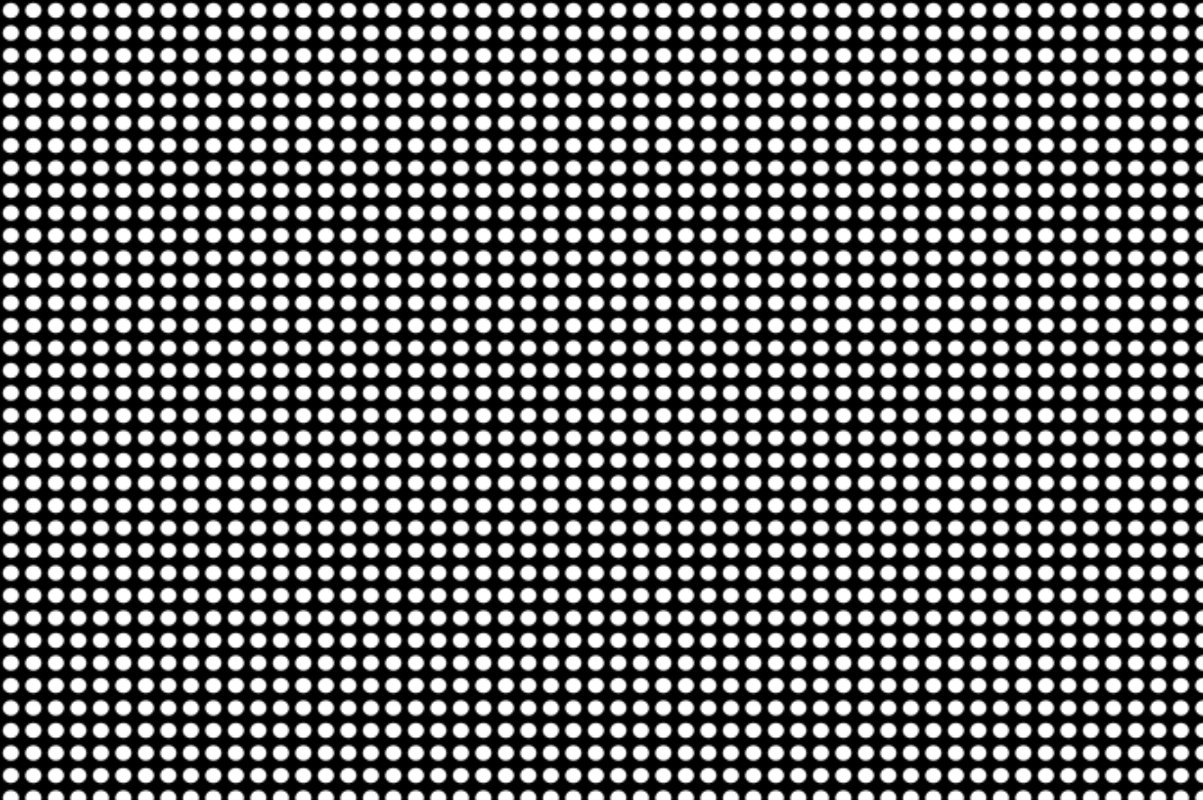
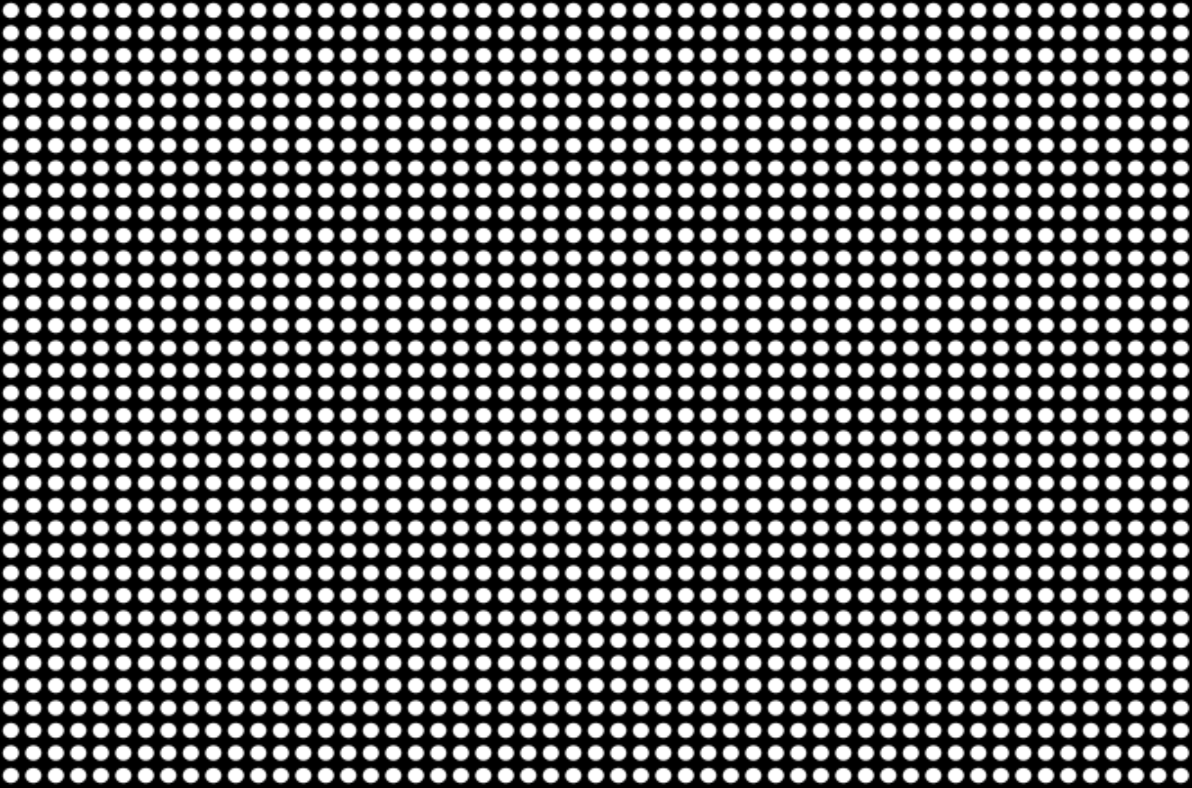
修改led底圖

diff --git a/led.css b/led.css
@@ -7,7 +7,7 @@
 
 body{
     background-image: url("");
-    background-color:#222222;
+    background-color:#3b3b3b;
 }
 
 #ledfont{
